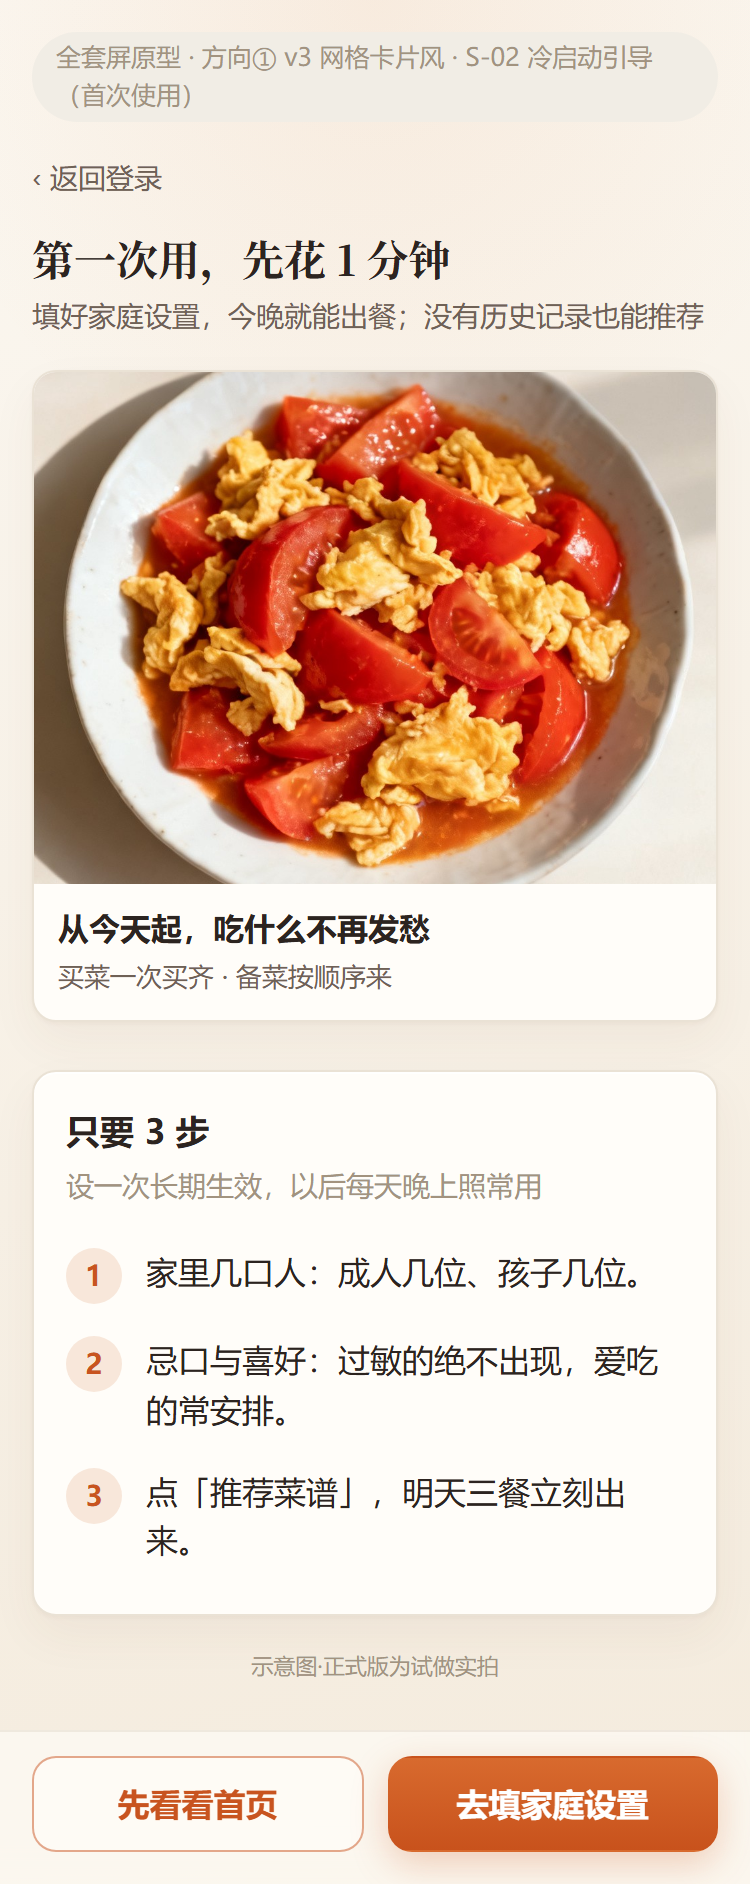
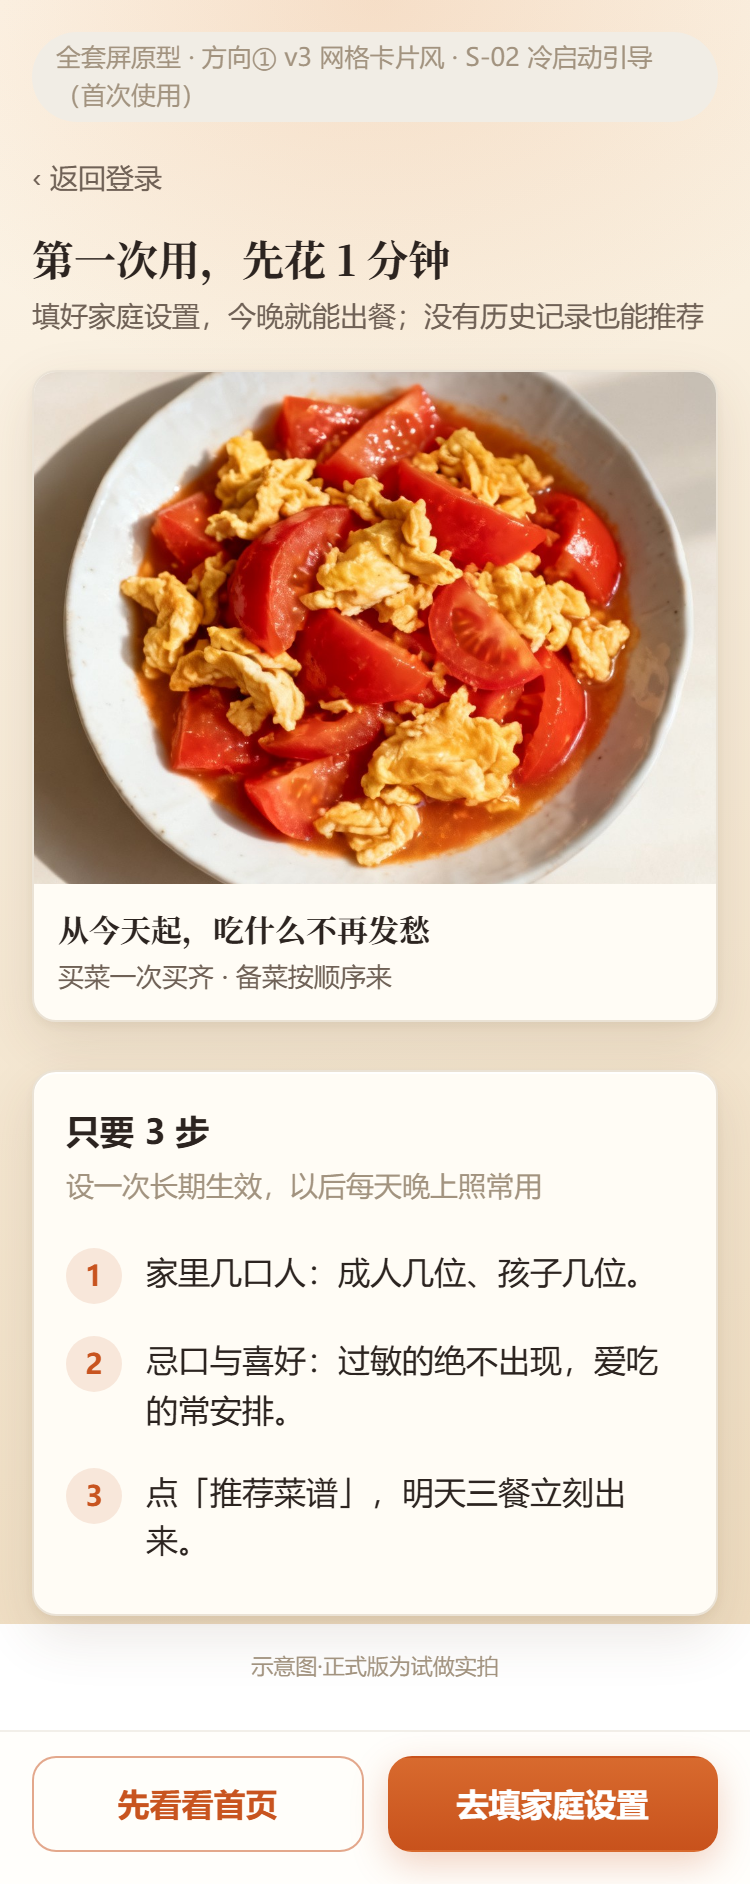
docs(q8): 原型质感第二轮加重（暖底大渐变/磨砂下沉/卡片浮起）
- 背景：#FDF6EA→#EEDCC0 fixed 视口渐变 + 顶部光晕 alpha .18（上 1/3 屏）
- 磨砂下沉：首页标题条 sticky 磨砂穿透；横幅/下一餐胶囊/弹层头部 64% + blur(14px) + 亮边；Tabbar 75%
- 卡片：#FFFCF5 + 0 10px 28px rgba(90,60,30,.12) + 内高光，明确浮起
- serif 加码至网格卡菜名与列表菜名（700）；主按钮与版式不动
- CSS 引用 ?v=3 防缓存；design-spec-v2 token 节同步；14 张同名重截 + sticky 穿透演示 1 张

diff --git a/docs/design/v2/prototypes/style-1/style.css b/docs/design/v2/prototypes/style-1/style.css
@@ -1,16 +1,17 @@
 /* ============================================================
    方向① 暖白极简 · 共享 token 组（本方向 3 屏共用，换 token 即换风格）
-   质感迭代（2026-10-14）：暖色微渐变底 + 磨砂浮层 + 主色纵向渐变 +
-   微暖白卡（内高光+多层柔影）+ serif 展示标题 + 两侧渐隐分隔线。
-   原则：克制，不改文字颜色/字号/触达高度，对比度不降级。
+   质感迭代第二轮（2026-10-14）：明显暖渐变底（固定视口）+ 顶部氛围光 +
+   磨砂下沉到看得见的位置（sticky 标题条/横幅/下一餐胶囊/弹层头部）+
+   亮白卡浮起（加深暖棕投影+内高光）+ serif 展示标题与菜名。
+   原则：手机一臂距离肉眼可辨；文字颜色/字号/触达高度不动，对比度不降级。
    ============================================================ */
 :root {
   /* 色板 */
-  --c-bg: #FBF7F0;            /* 页面底（渐变亮端，纯色场景回退值） */
-  --c-bg-lo: #F4EBDD;         /* 页面底渐变暗端 */
+  --c-bg: #FDF6EA;            /* 页面底（渐变亮端，纯色场景回退值） */
+  --c-bg-lo: #EEDCC0;         /* 页面底渐变暗端（与亮端拉开，一眼可见上下色差） */
   --grad-bg: linear-gradient(165deg, var(--c-bg) 0%, var(--c-bg-lo) 100%);
-  --glow-top: radial-gradient(90% 40% at 50% 0%, rgba(216, 120, 52, .09) 0%, rgba(216, 120, 52, 0) 70%); /* 顶部暖橙氛围光，极低透明度 */
-  --c-card: #FFFDF9;          /* 卡片底（微暖白） */
+  --glow-top: radial-gradient(100% 34% at 50% 0%, rgba(216, 120, 52, .18) 0%, rgba(216, 120, 52, 0) 72%); /* 顶部暖橙氛围光，覆盖上 1/3 屏 */
+  --c-card: #FFFCF5;          /* 卡片底（亮暖白，与暖底拉开对比） */
   --c-ink: #2C2420;           /* 深棕主文字 */
   --c-ink-2: #6F6156;         /* 次文字 */
   --c-ink-3: #A2937F;         /* 辅助弱化 */
@@ -27,11 +28,13 @@
   --c-ok-ink: #476B3C;        /* 必消/好评绿字 */
   --c-tag-bg: #F1EDE5;        /* 中性标签底 */
   --c-tag-ink: #8A7B68;       /* 中性标签字 */
-  /* 磨砂浮层（Tabbar / sticky 操作栏 / 轻浮横幅） */
-  --c-glass: rgba(255, 253, 249, .62);        /* @supports 生效时的半透底 */
+  /* 磨砂浮层（Tabbar / sticky 操作栏与标题条 / 轻浮横幅 / 弹层头部） */
+  --c-glass: rgba(255, 253, 249, .75);        /* Tabbar/操作栏：75% 半透底（仍见模糊、文字清晰） */
+  --c-glass-soft: rgba(255, 253, 249, .64);   /* 标题条/横幅/弹层头部：60~70% 半透 */
+  --c-glass-edge: rgba(255, 255, 255, .9);    /* 磨砂面 1px 亮边（受光上边） */
   --c-glass-solid: rgba(255, 253, 249, .95);  /* 低版本降级：95% 不透明实色 */
   --c-glass-line: rgba(90, 60, 30, .08);      /* 磨砂区发际线 */
-  /* 展示字体栈：仅一级标题与数字日期用 serif，正文保持无衬线 */
+  /* 展示字体栈：一级标题、数字日期与菜名用 serif，正文保持无衬线 */
   --ff-display: "Noto Serif SC", "Songti SC", "SimSun", serif;
   /* 菜品占位色块（暖色系，标注「实拍图位」） */
   --ph-1: #F2B27E;
@@ -53,8 +56,8 @@
   --sp-1: 4px; --sp-2: 8px; --sp-3: 12px; --sp-4: 16px; --sp-5: 24px; --sp-6: 32px;
   /* 圆角 */
   --r-1: 8px; --r-2: 12px; --r-3: 16px; --r-pill: 999px;
-  /* 阴影（克制叠加：近处贴地 + 远处大模糊柔影 + 卡顶 1px 半透内高光） */
-  --sh-card: 0 1px 2px rgba(90, 60, 30, .04), 0 10px 24px rgba(90, 60, 30, .05), inset 0 1px 0 rgba(255, 255, 255, .85);
+  /* 阴影（近处贴地 + 远处大模糊暖棕柔影加深一档 + 卡顶 1px 半透内高光，卡片明确浮起） */
+  --sh-card: 0 2px 4px rgba(90, 60, 30, .06), 0 10px 28px rgba(90, 60, 30, .12), inset 0 1px 0 rgba(255, 255, 255, .9);
   --sh-pop: 0 12px 32px rgba(90, 60, 30, .14);
   --sh-primary: 0 6px 18px rgba(200, 84, 31, .26);        /* 主按钮柔和橙影 */
   --sh-primary-press: 0 2px 8px rgba(200, 84, 31, .20);   /* 按压态下沉 */
@@ -65,9 +68,9 @@
 html { -webkit-text-size-adjust: 100%; }
 body {
   font-family: -apple-system, BlinkMacSystemFont, "PingFang SC", "Hiragino Sans GB", "Microsoft YaHei", sans-serif;
-  /* 暖色斜向微渐变底 + 顶部低透明暖橙氛围光；body 背景自动铺满整页画布 */
+  /* 暖色斜向渐变底（固定视口：任意一屏内即可见上下色差）+ 顶部暖橙氛围光 */
   background: var(--c-bg);
-  background: var(--glow-top), var(--grad-bg);
+  background: var(--glow-top) fixed, var(--grad-bg) fixed;
   color: var(--c-ink);
   font-size: var(--fs-body); line-height: 1.55;
   font-variant-numeric: tabular-nums; /* 价格/人数/时长等数字等宽对齐 */
@@ -97,9 +100,12 @@ a { color: inherit; text-decoration: none; }
 .meal-time { font-size: var(--fs-small); color: var(--c-accent); }
 .meal-head .tag { margin-left: auto; }
 
-/* 标签：半透柔彩底 + 1px 同色细边（inset），去实色块塑料感；「下一餐」用主色渐变浮起 */
+/* 标签：半透柔彩底 + 1px 同色细边（inset），去实色块塑料感；「下一餐」磨砂胶囊（64% 半透 + blur(14px) + 亮边）浮起 */
 .tag { display: inline-flex; align-items: center; min-height: 26px; padding: 0 10px; border-radius: var(--r-pill); font-size: var(--fs-mini); font-weight: 600; white-space: nowrap; }
-.tag-next { background: var(--grad-primary); color: var(--c-primary-ink); box-shadow: 0 3px 10px rgba(200, 84, 31, .28); }
+.tag-next { background: rgba(255, 247, 238, .95); color: var(--c-primary); font-weight: 700; box-shadow: inset 0 0 0 1px rgba(200, 84, 31, .32), 0 3px 10px rgba(200, 84, 31, .18); }
+@supports (backdrop-filter: blur(1px)) {
+  .tag-next { background: rgba(255, 247, 238, .62); backdrop-filter: blur(14px); -webkit-backdrop-filter: blur(14px); box-shadow: inset 0 0 0 1px var(--c-glass-edge), inset 0 0 0 2px rgba(200, 84, 31, .18), 0 3px 10px rgba(200, 84, 31, .18); }
+}
 .tag-ok { background: rgba(71, 107, 60, .10); color: var(--c-ok-ink); box-shadow: inset 0 0 0 1px rgba(71, 107, 60, .26); }
 .tag-mid { background: rgba(138, 123, 104, .10); color: var(--c-tag-ink); box-shadow: inset 0 0 0 1px rgba(138, 123, 104, .26); }
 
@@ -114,7 +120,8 @@ a { color: inherit; text-decoration: none; }
 .dish-img { width: 64px; height: 64px; flex: none; border-radius: var(--r-1); object-fit: cover; display: block; }
 .img-note { font-size: 11px; color: var(--c-ink-3); text-align: center; margin-top: var(--sp-4); }
 .dish-info { flex: 1; min-width: 0; }
-.dish-name { font-size: var(--fs-body); font-weight: 600; }
+/* 菜名：serif 展示字加码（网格卡内菜名同口径，见 v3.css .fcard-name） */
+.dish-name { font-family: var(--ff-display); font-size: var(--fs-body); font-weight: 700; }
 .dish-meta { font-size: var(--fs-small); color: var(--c-ink-2); }
 .dish-src { font-size: var(--fs-mini); color: var(--c-ink-3); margin-top: 1px; }
 
@@ -126,11 +133,11 @@ a { color: inherit; text-decoration: none; }
 .btn-row { display: flex; gap: var(--sp-3); margin-top: var(--sp-3); }
 .btn-row .btn { flex: 1; }
 
-/* 必消横幅：轻磨砂浮层（半透 + 同色细边），低版本为 95% 实色 */
-.banner { display: flex; gap: var(--sp-2); align-items: flex-start; background: rgba(237, 243, 228, .82); color: var(--c-ok-ink); border-radius: var(--r-2); padding: var(--sp-3) var(--sp-4); font-size: var(--fs-small); box-shadow: inset 0 0 0 1px rgba(71, 107, 60, .16); }
+/* 必消横幅：明显毛玻璃（60% 半透 + blur(14px) + 1px 亮边），低版本为 95% 实色 */
+.banner { display: flex; gap: var(--sp-2); align-items: flex-start; background: rgba(237, 243, 228, .95); color: var(--c-ok-ink); border-radius: var(--r-2); padding: var(--sp-3) var(--sp-4); font-size: var(--fs-small); box-shadow: inset 0 0 0 1px rgba(71, 107, 60, .20); }
 .banner b { font-weight: 700; }
 @supports (backdrop-filter: blur(1px)) {
-  .banner { background: rgba(237, 243, 228, .68); backdrop-filter: blur(10px); -webkit-backdrop-filter: blur(10px); }
+  .banner { background: rgba(237, 243, 228, .60); backdrop-filter: blur(14px); -webkit-backdrop-filter: blur(14px); box-shadow: inset 0 0 0 1px var(--c-glass-edge), inset 0 0 0 2px rgba(71, 107, 60, .10); }
 }
 
 .cand-row { display: flex; flex-wrap: wrap; gap: var(--sp-2); padding: 0 0 var(--sp-3); }

diff --git a/docs/design/v2/prototypes/style-1/v3/v3.css b/docs/design/v2/prototypes/style-1/v3/v3.css
@@ -4,13 +4,16 @@
    本文件只加版式与图片比例：菜品卡上图下文（图 4:3 通宽卡顶），
    b 屏双列网格；首页「今天三餐」每餐区横滑卡片流；操作收成卡片
    底部小按钮；清单屏小圆图点缀。
+   质感第二轮（2026-10-14）：网格卡菜名上 serif；警示横幅/弹层头部
+   明显毛玻璃；首页顶部标题区 sticky 磨砂条（滚动时内容从条下穿过）。
    ============================================================ */
 
 /* --- 菜品卡（上图下文，图 4:3） --- */
 .fcard { background: var(--c-card); border: 1px solid var(--c-line); border-radius: var(--r-2); box-shadow: var(--sh-card); overflow: hidden; display: flex; flex-direction: column; }
 .fcard > img { display: block; width: 100%; aspect-ratio: 4 / 3; object-fit: cover; }
 .fcard-body { padding: 10px var(--sp-3) var(--sp-3); display: flex; flex-direction: column; gap: 2px; flex: 1; }
-.fcard-name { font-size: 15.5px; font-weight: 700; }
+/* 网格卡菜名：serif 展示字 + 700，与正文无衬线拉开层级 */
+.fcard-name { font-family: var(--ff-display); font-size: 15.5px; font-weight: 700; }
 .fcard-meta { font-size: 13px; color: var(--c-ink-2); }
 .fcard-act { margin-top: auto; padding-top: var(--sp-2); }
 .fcard-act .mini { display: flex; align-items: center; justify-content: center; min-height: 40px; border-radius: var(--r-1); background: var(--c-tag-bg); color: var(--c-ink-2); font-size: var(--fs-small); font-weight: 600; }
@@ -53,10 +56,10 @@
 .tag-bad { background: rgba(166, 58, 34, .10); color: var(--c-bad-ink); box-shadow: inset 0 0 0 1px rgba(166, 58, 34, .26); }
 .tag-none { background: rgba(138, 133, 120, .10); color: var(--c-none-ink); box-shadow: inset 0 0 0 1px rgba(138, 133, 120, .26); }
 
-/* --- 警示横幅（服务未连接 + 重试，与 .banner 同构）：轻磨砂，保持警示辨识度 --- */
-.banner-warn { background: rgba(249, 237, 218, .84); color: var(--c-warn-ink); box-shadow: inset 0 0 0 1px rgba(154, 103, 28, .20); }
+/* --- 警示横幅（服务未连接 + 重试，与 .banner 同构）：明显毛玻璃，保持警示辨识度 --- */
+.banner-warn { background: rgba(249, 237, 218, .95); color: var(--c-warn-ink); box-shadow: inset 0 0 0 1px rgba(154, 103, 28, .22); }
 @supports (backdrop-filter: blur(1px)) {
-  .banner-warn { background: rgba(249, 237, 218, .70); }
+  .banner-warn { background: rgba(249, 237, 218, .62); backdrop-filter: blur(14px); -webkit-backdrop-filter: blur(14px); box-shadow: inset 0 0 0 1px var(--c-glass-edge), inset 0 0 0 2px rgba(154, 103, 28, .10); }
 }
 .banner .act { margin-left: auto; flex: none; align-self: center; font-weight: 700; text-decoration: underline; white-space: nowrap; }
 .banner .act:active { opacity: .82; }
@@ -135,7 +138,14 @@
 
 /* --- 记一笔弹层（演示页：底层内容压暗 + 底部弹层静态呈现） --- */
 .dim { opacity: .45; pointer-events: none; }
-.sheet { background: var(--c-card); border: 1px solid var(--c-line); border-radius: var(--r-3) var(--r-3) 0 0; box-shadow: var(--sh-pop); padding: var(--sp-4) var(--sp-4) var(--sp-5); margin-top: var(--sp-5); }
+/* 弹层头部：明显毛玻璃带（64% 半透 + blur(14px) + 顶部 1px 亮边），::before 承载不改结构；
+   低版本为 95% 实色带。子元素提为 positioned 以绘于磨砂带之上 */
+.sheet { position: relative; overflow: hidden; background: var(--c-card); border: 1px solid var(--c-line); border-radius: var(--r-3) var(--r-3) 0 0; box-shadow: var(--sh-pop); padding: var(--sp-4) var(--sp-4) var(--sp-5); margin-top: var(--sp-5); }
+.sheet > * { position: relative; }
+.sheet::before { content: ""; position: absolute; left: 0; right: 0; top: 0; height: 88px; border-radius: var(--r-3) var(--r-3) 0 0; background: rgba(255, 253, 249, .95); border-bottom: 1px solid var(--c-glass-line); box-shadow: inset 0 1px 0 var(--c-glass-edge); }
+@supports (backdrop-filter: blur(1px)) {
+  .sheet::before { background: var(--c-glass-soft); backdrop-filter: blur(14px); -webkit-backdrop-filter: blur(14px); }
+}
 .sheet-grab { width: 40px; height: 4px; border-radius: var(--r-pill); background: var(--c-line); margin: 0 auto var(--sp-3); }
 .sheet-title { font-size: var(--fs-h2); font-weight: var(--fw-head); text-align: center; }
 .sheet-sub { font-size: var(--fs-small); color: var(--c-ink-3); text-align: center; margin-top: 2px; }
@@ -159,3 +169,10 @@
 .empty-box { text-align: center; padding: var(--sp-4) var(--sp-4) var(--sp-5); }
 .empty-title { font-size: var(--fs-h2); font-weight: var(--fw-head); }
 .empty-text { font-size: var(--fs-small); color: var(--c-ink-2); margin: var(--sp-2) 0 var(--sp-4); }
+
+/* --- 首页顶部标题条：sticky 磨砂（滚动时菜品图从条下穿过，blur 肉眼可见） ---
+   负边距满宽出血，条内文字左右仍对齐页面安全边距；低版本 95% 实色 */
+.topbar-sticky { position: sticky; top: 0; z-index: 30; margin-left: calc(-1 * var(--sp-4)); margin-right: calc(-1 * var(--sp-4)); padding: var(--sp-2) var(--sp-4); background: var(--c-glass-solid); border-bottom: 1px solid var(--c-glass-line); box-shadow: inset 0 1px 0 var(--c-glass-edge); }
+@supports (backdrop-filter: blur(1px)) {
+  .topbar-sticky { background: var(--c-glass-soft); backdrop-filter: blur(14px); -webkit-backdrop-filter: blur(14px); }
+}

diff --git a/docs/design/v2/prototypes/index.html b/docs/design/v2/prototypes/index.html
@@ -6,11 +6,11 @@
 <title>全套屏原型 · 走查索引</title>
 <style>
   * { box-sizing: border-box; margin: 0; padding: 0; }
-  body { font-family: -apple-system, BlinkMacSystemFont, "PingFang SC", "Hiragino Sans GB", "Microsoft YaHei", sans-serif; background: #FBF7F0; background: radial-gradient(90% 40% at 50% 0%, rgba(216,120,52,.09) 0%, rgba(216,120,52,0) 70%), linear-gradient(165deg, #FBF7F0 0%, #F4EBDD 100%); color: #2C2420; font-size: 16px; line-height: 1.55; font-variant-numeric: tabular-nums; }
+  body { font-family: -apple-system, BlinkMacSystemFont, "PingFang SC", "Hiragino Sans GB", "Microsoft YaHei", sans-serif; background: #FDF6EA; background: radial-gradient(100% 34% at 50% 0%, rgba(216,120,52,.18) 0%, rgba(216,120,52,0) 72%) fixed, linear-gradient(165deg, #FDF6EA 0%, #EEDCC0 100%) fixed; color: #2C2420; font-size: 16px; line-height: 1.55; font-variant-numeric: tabular-nums; }
   .page { max-width: 420px; margin: 0 auto; padding: 20px 16px 48px; }
   h1 { font-family: "Noto Serif SC", "Songti SC", "SimSun", serif; font-size: 22px; }
   .sub { font-size: 14px; color: #6F6156; margin: 6px 0 20px; }
-  .flow { background: #FFFDF9; border: 1px solid #EAE2D5; border-radius: 14px; padding: 16px; margin-bottom: 14px; box-shadow: 0 1px 2px rgba(90,60,30,.04), 0 10px 24px rgba(90,60,30,.05), inset 0 1px 0 rgba(255,255,255,.85); }
+  .flow { background: #FFFCF5; border: 1px solid #EAE2D5; border-radius: 14px; padding: 16px; margin-bottom: 14px; box-shadow: 0 2px 4px rgba(90,60,30,.06), 0 10px 28px rgba(90,60,30,.12), inset 0 1px 0 rgba(255,255,255,.9); }
   .flow-name { font-family: "Noto Serif SC", "Songti SC", "SimSun", serif; font-size: 17px; font-weight: 700; }
   .flow-desc { font-size: 14px; color: #6F6156; margin: 6px 0 12px; }
   .steps { display: flex; flex-direction: column; gap: 8px; }
@@ -22,7 +22,7 @@
   .sbody { flex: 1; min-width: 0; display: flex; flex-direction: column; }
   .sname { font-size: 15px; font-weight: 600; }
   .sdesc { font-size: 12.5px; font-weight: 400; opacity: .85; }
-  details { background: #FFFDF9; border: 1px solid #EAE2D5; border-radius: 14px; padding: 16px; margin-bottom: 14px; box-shadow: 0 1px 2px rgba(90,60,30,.04), 0 10px 24px rgba(90,60,30,.05), inset 0 1px 0 rgba(255,255,255,.85); }
+  details { background: #FFFCF5; border: 1px solid #EAE2D5; border-radius: 14px; padding: 16px; margin-bottom: 14px; box-shadow: 0 2px 4px rgba(90,60,30,.06), 0 10px 28px rgba(90,60,30,.12), inset 0 1px 0 rgba(255,255,255,.9); }
   summary { font-size: 15px; font-weight: 700; color: #8A7B68; cursor: pointer; min-height: 32px; }
   .old { margin-top: 12px; }
   .old-head { font-size: 13px; font-weight: 700; color: #8A7B68; margin: 10px 0 6px; }

diff --git a/docs/design/v2/prototypes/style-1/v3/home-offline.html b/docs/design/v2/prototypes/style-1/v3/home-offline.html
@@ -4,14 +4,14 @@
 <meta charset="utf-8">
 <meta name="viewport" content="width=device-width, initial-scale=1, viewport-fit=cover">
 <title>服务未连接 · 全套屏原型 S-13</title>
-<link rel="stylesheet" href="../style.css">
-<link rel="stylesheet" href="./v3.css">
+<link rel="stylesheet" href="../style.css?v=3">
+<link rel="stylesheet" href="./v3.css?v=3">
 </head>
 <body>
 <div class="page">
   <div class="proto-badge"><span>全套屏原型 · 方向① v3 网格卡片风 · S-13 服务未连接（首页叠加态）</span></div>
 
-  <header class="topbar">
+  <header class="topbar topbar-sticky">
     <a class="back" href="../../index.html">‹ 返回索引</a>
     <h1>今天 · 10月13日 周二</h1>
     <p class="sub">2 大 1 小 · 晚餐是今天的下一餐　<span class="demo-tag">演示态：错误（可重试）</span></p>

diff --git a/docs/design/v2/prototypes/style-1/v3/a.html b/docs/design/v2/prototypes/style-1/v3/a.html
@@ -4,14 +4,14 @@
 <meta charset="utf-8">
 <meta name="viewport" content="width=device-width, initial-scale=1, viewport-fit=cover">
 <title>首页 · 方向① 大图版 B 网格风</title>
-<link rel="stylesheet" href="../style.css">
-<link rel="stylesheet" href="./v3.css">
+<link rel="stylesheet" href="../style.css?v=3">
+<link rel="stylesheet" href="./v3.css?v=3">
 </head>
 <body>
 <div class="page">
   <div class="proto-badge"><span>全套屏原型 · 方向① v3 网格卡片风 · S-03 首页（今天 + 定明天）</span></div>
 
-  <header class="topbar">
+  <header class="topbar topbar-sticky">
     <a class="back" href="../../index.html">‹ 返回索引</a>
     <h1>今天 · 10月13日 周二</h1>
     <p class="sub">2 大 1 小 · 晚餐是今天的下一餐</p>

diff --git a/docs/design/v2/prototypes/style-1/v3/b.html b/docs/design/v2/prototypes/style-1/v3/b.html
@@ -4,8 +4,8 @@
 <meta charset="utf-8">
 <meta name="viewport" content="width=device-width, initial-scale=1, viewport-fit=cover">
 <title>明天三餐 · 方向① 大图版 B 网格风</title>
-<link rel="stylesheet" href="../style.css">
-<link rel="stylesheet" href="./v3.css">
+<link rel="stylesheet" href="../style.css?v=3">
+<link rel="stylesheet" href="./v3.css?v=3">
 </head>
 <body>
 <div class="page">

diff --git a/docs/design/v2/prototypes/style-1/v3/c.html b/docs/design/v2/prototypes/style-1/v3/c.html
@@ -4,8 +4,8 @@
 <meta charset="utf-8">
 <meta name="viewport" content="width=device-width, initial-scale=1, viewport-fit=cover">
 <title>采购清单 · 方向① 大图版 B 网格风</title>
-<link rel="stylesheet" href="../style.css">
-<link rel="stylesheet" href="./v3.css">
+<link rel="stylesheet" href="../style.css?v=3">
+<link rel="stylesheet" href="./v3.css?v=3">
 </head>
 <body>
 <div class="page">

diff --git a/docs/design/v2/prototypes/style-1/v3/feedback-sheet.html b/docs/design/v2/prototypes/style-1/v3/feedback-sheet.html
@@ -4,8 +4,8 @@
 <meta charset="utf-8">
 <meta name="viewport" content="width=device-width, initial-scale=1, viewport-fit=cover">
 <title>记一笔弹层 · 全套屏原型 S-10</title>
-<link rel="stylesheet" href="../style.css">
-<link rel="stylesheet" href="./v3.css">
+<link rel="stylesheet" href="../style.css?v=3">
+<link rel="stylesheet" href="./v3.css?v=3">
 </head>
 <body>
 <div class="page">

diff --git a/docs/design/v2/prototypes/style-1/v3/meal-setup.html b/docs/design/v2/prototypes/style-1/v3/meal-setup.html
@@ -4,8 +4,8 @@
 <meta charset="utf-8">
 <meta name="viewport" content="width=device-width, initial-scale=1, viewport-fit=cover">
 <title>定明天的餐 · 全套屏原型 S-04</title>
-<link rel="stylesheet" href="../style.css">
-<link rel="stylesheet" href="./v3.css">
+<link rel="stylesheet" href="../style.css?v=3">
+<link rel="stylesheet" href="./v3.css?v=3">
 </head>
 <body>
 <div class="page">

diff --git a/docs/design/v2/prototypes/style-1/v3/onboarding.html b/docs/design/v2/prototypes/style-1/v3/onboarding.html
@@ -4,8 +4,8 @@
 <meta charset="utf-8">
 <meta name="viewport" content="width=device-width, initial-scale=1, viewport-fit=cover">
 <title>冷启动引导 · 全套屏原型 S-02</title>
-<link rel="stylesheet" href="../style.css">
-<link rel="stylesheet" href="./v3.css">
+<link rel="stylesheet" href="../style.css?v=3">
+<link rel="stylesheet" href="./v3.css?v=3">
 </head>
 <body>
 <div class="page">

diff --git a/docs/design/v2/prototypes/style-1/v3/dish.html b/docs/design/v2/prototypes/style-1/v3/dish.html
@@ -4,8 +4,8 @@
 <meta charset="utf-8">
 <meta name="viewport" content="width=device-width, initial-scale=1, viewport-fit=cover">
 <title>菜品做法 · 全套屏原型 S-09</title>
-<link rel="stylesheet" href="../style.css">
-<link rel="stylesheet" href="./v3.css">
+<link rel="stylesheet" href="../style.css?v=3">
+<link rel="stylesheet" href="./v3.css?v=3">
 </head>
 <body>
 <div class="page">

diff --git a/docs/design/v2/prototypes/style-1/v3/empty-hand.html b/docs/design/v2/prototypes/style-1/v3/empty-hand.html
@@ -4,8 +4,8 @@
 <meta charset="utf-8">
 <meta name="viewport" content="width=device-width, initial-scale=1, viewport-fit=cover">
 <title>空手场景 · 全套屏原型 S-07</title>
-<link rel="stylesheet" href="../style.css">
-<link rel="stylesheet" href="./v3.css">
+<link rel="stylesheet" href="../style.css?v=3">
+<link rel="stylesheet" href="./v3.css?v=3">
 </head>
 <body>
 <div class="page">
